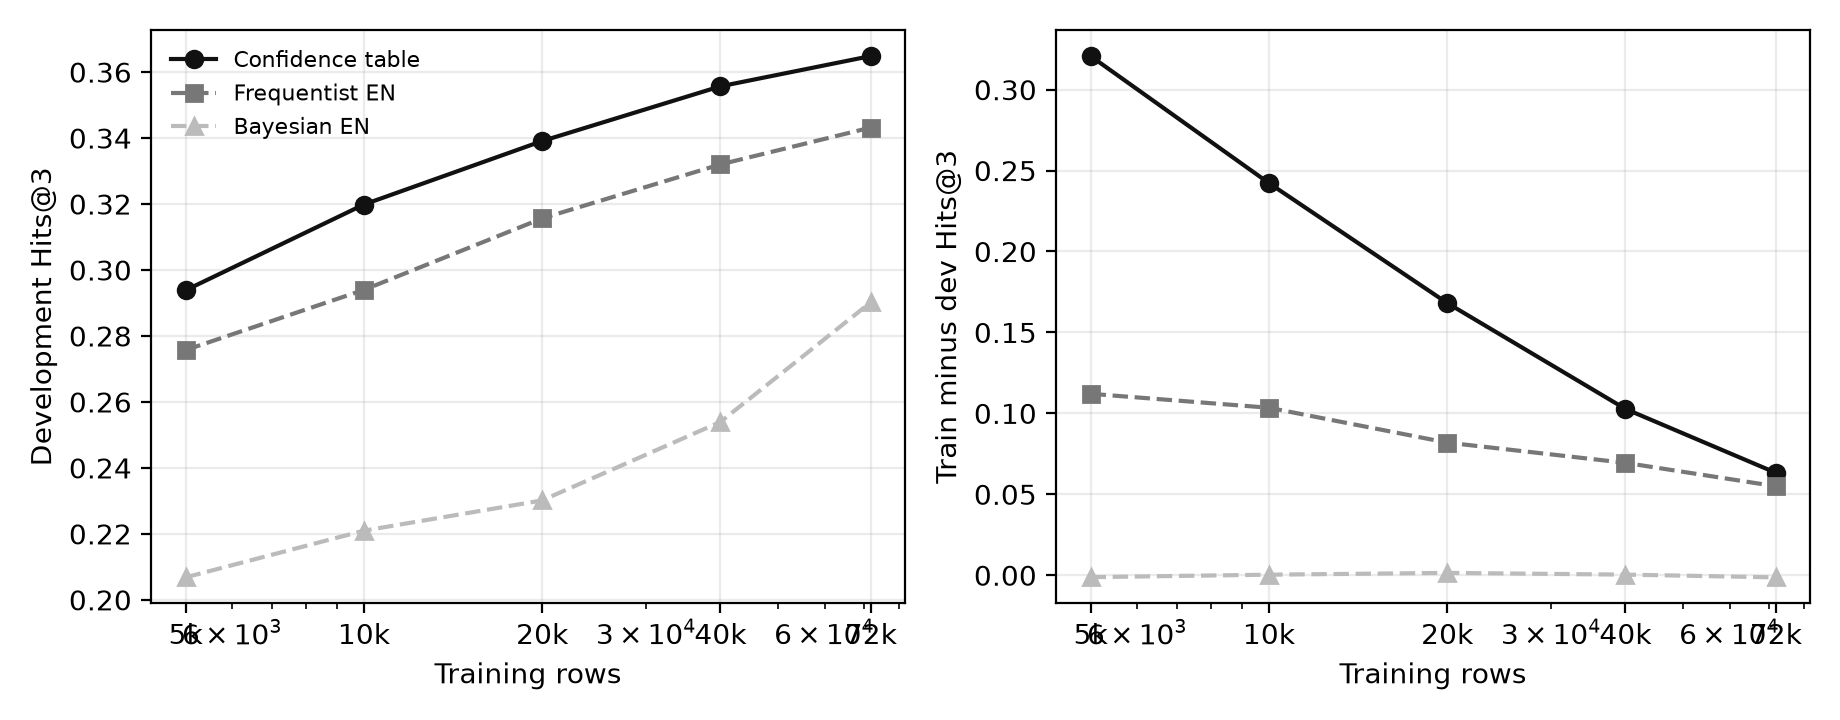
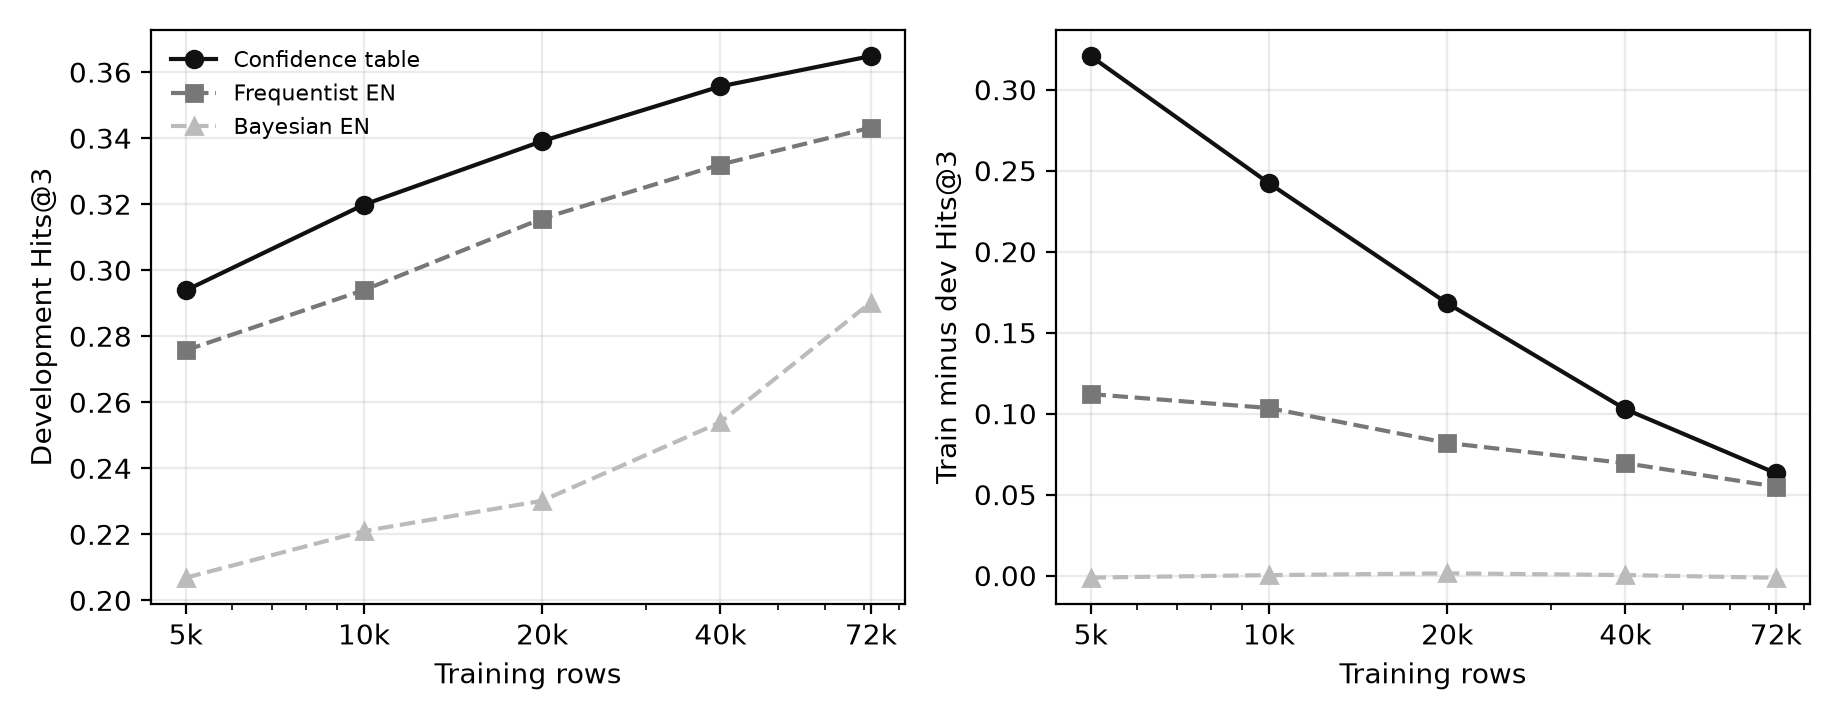
Fixed a broken chart slide 28

Changed region(s): [[0.5886, 0.825, 0.9913, 0.8861], [0.0929, 0.825, 0.4957, 0.9167], [0.5266, 0.6722, 0.5576, 0.7028]]

diff --git a/archive/README.md b/archive/README.md
@@ -35,3 +35,5 @@ the QLever OSM planet endpoint). That harvest is made by cells R0a to R0e of
 
 Notebooks here read and write Google Drive paths of the time (`/content/drive/MyDrive/geoproject/`) and are not
 expected to run unchanged. They are kept as a record, with their outputs stripped.
+
+On Google Drive the matching run folders (results, raw, clean, annotated, models and others) were moved on 2026-11-05 into `geoproject/archive_pre_v20/`. To rerun an archived notebook, move the folder it needs back to `geoproject/`.
